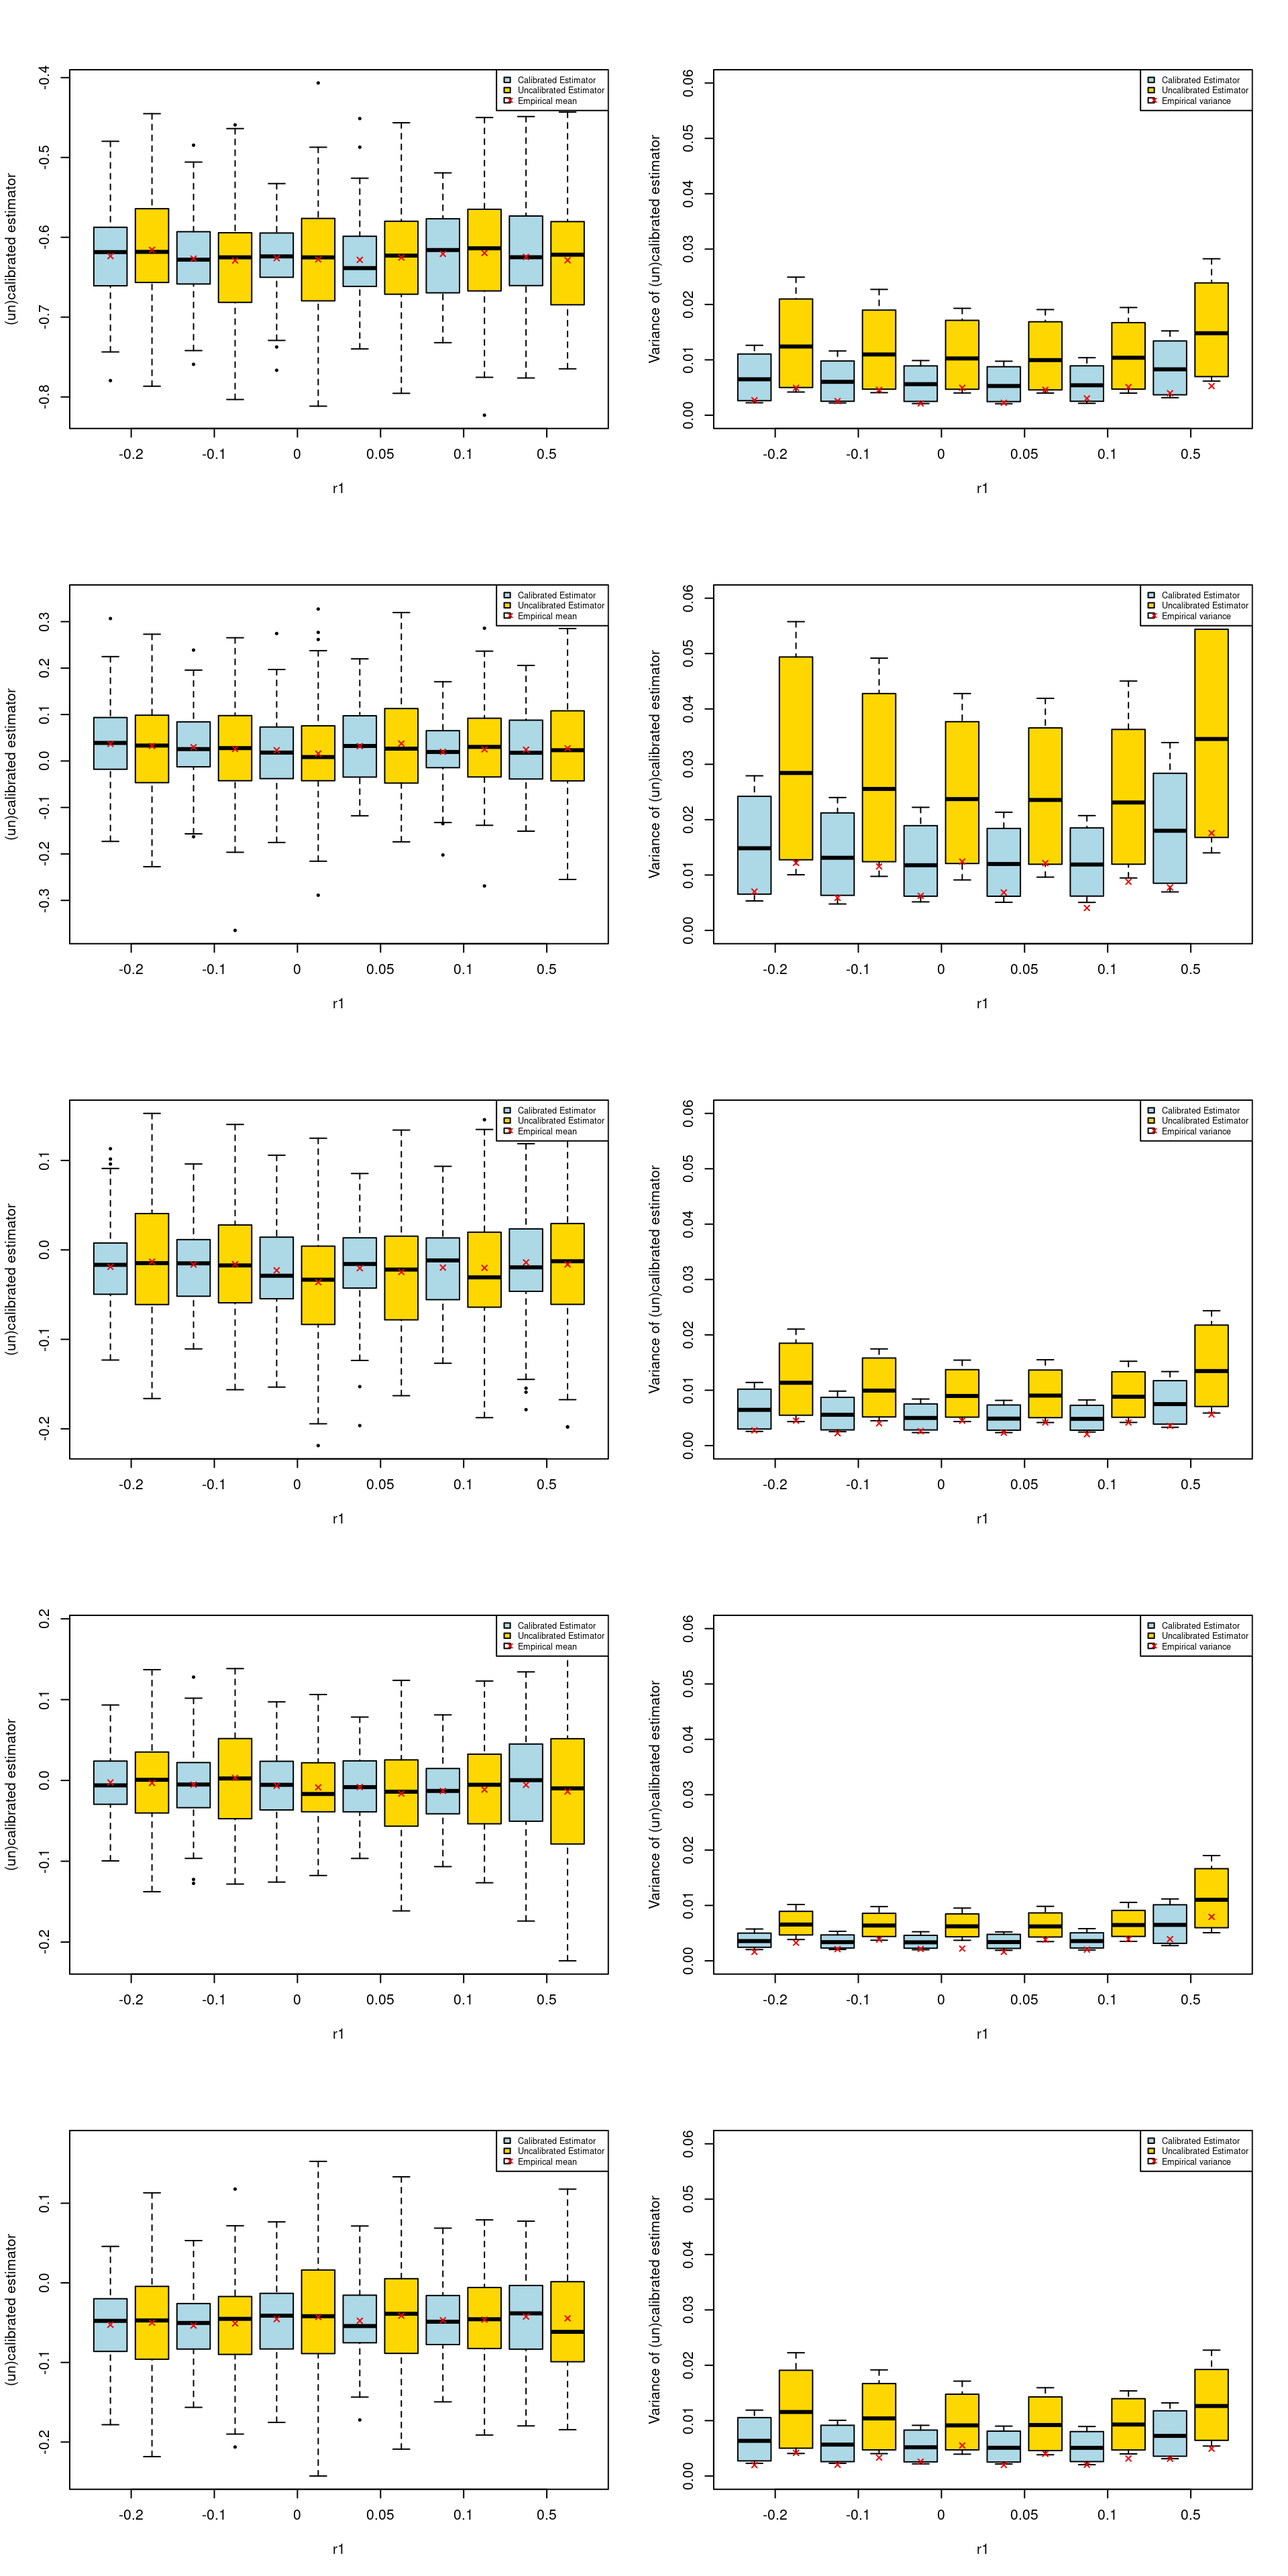
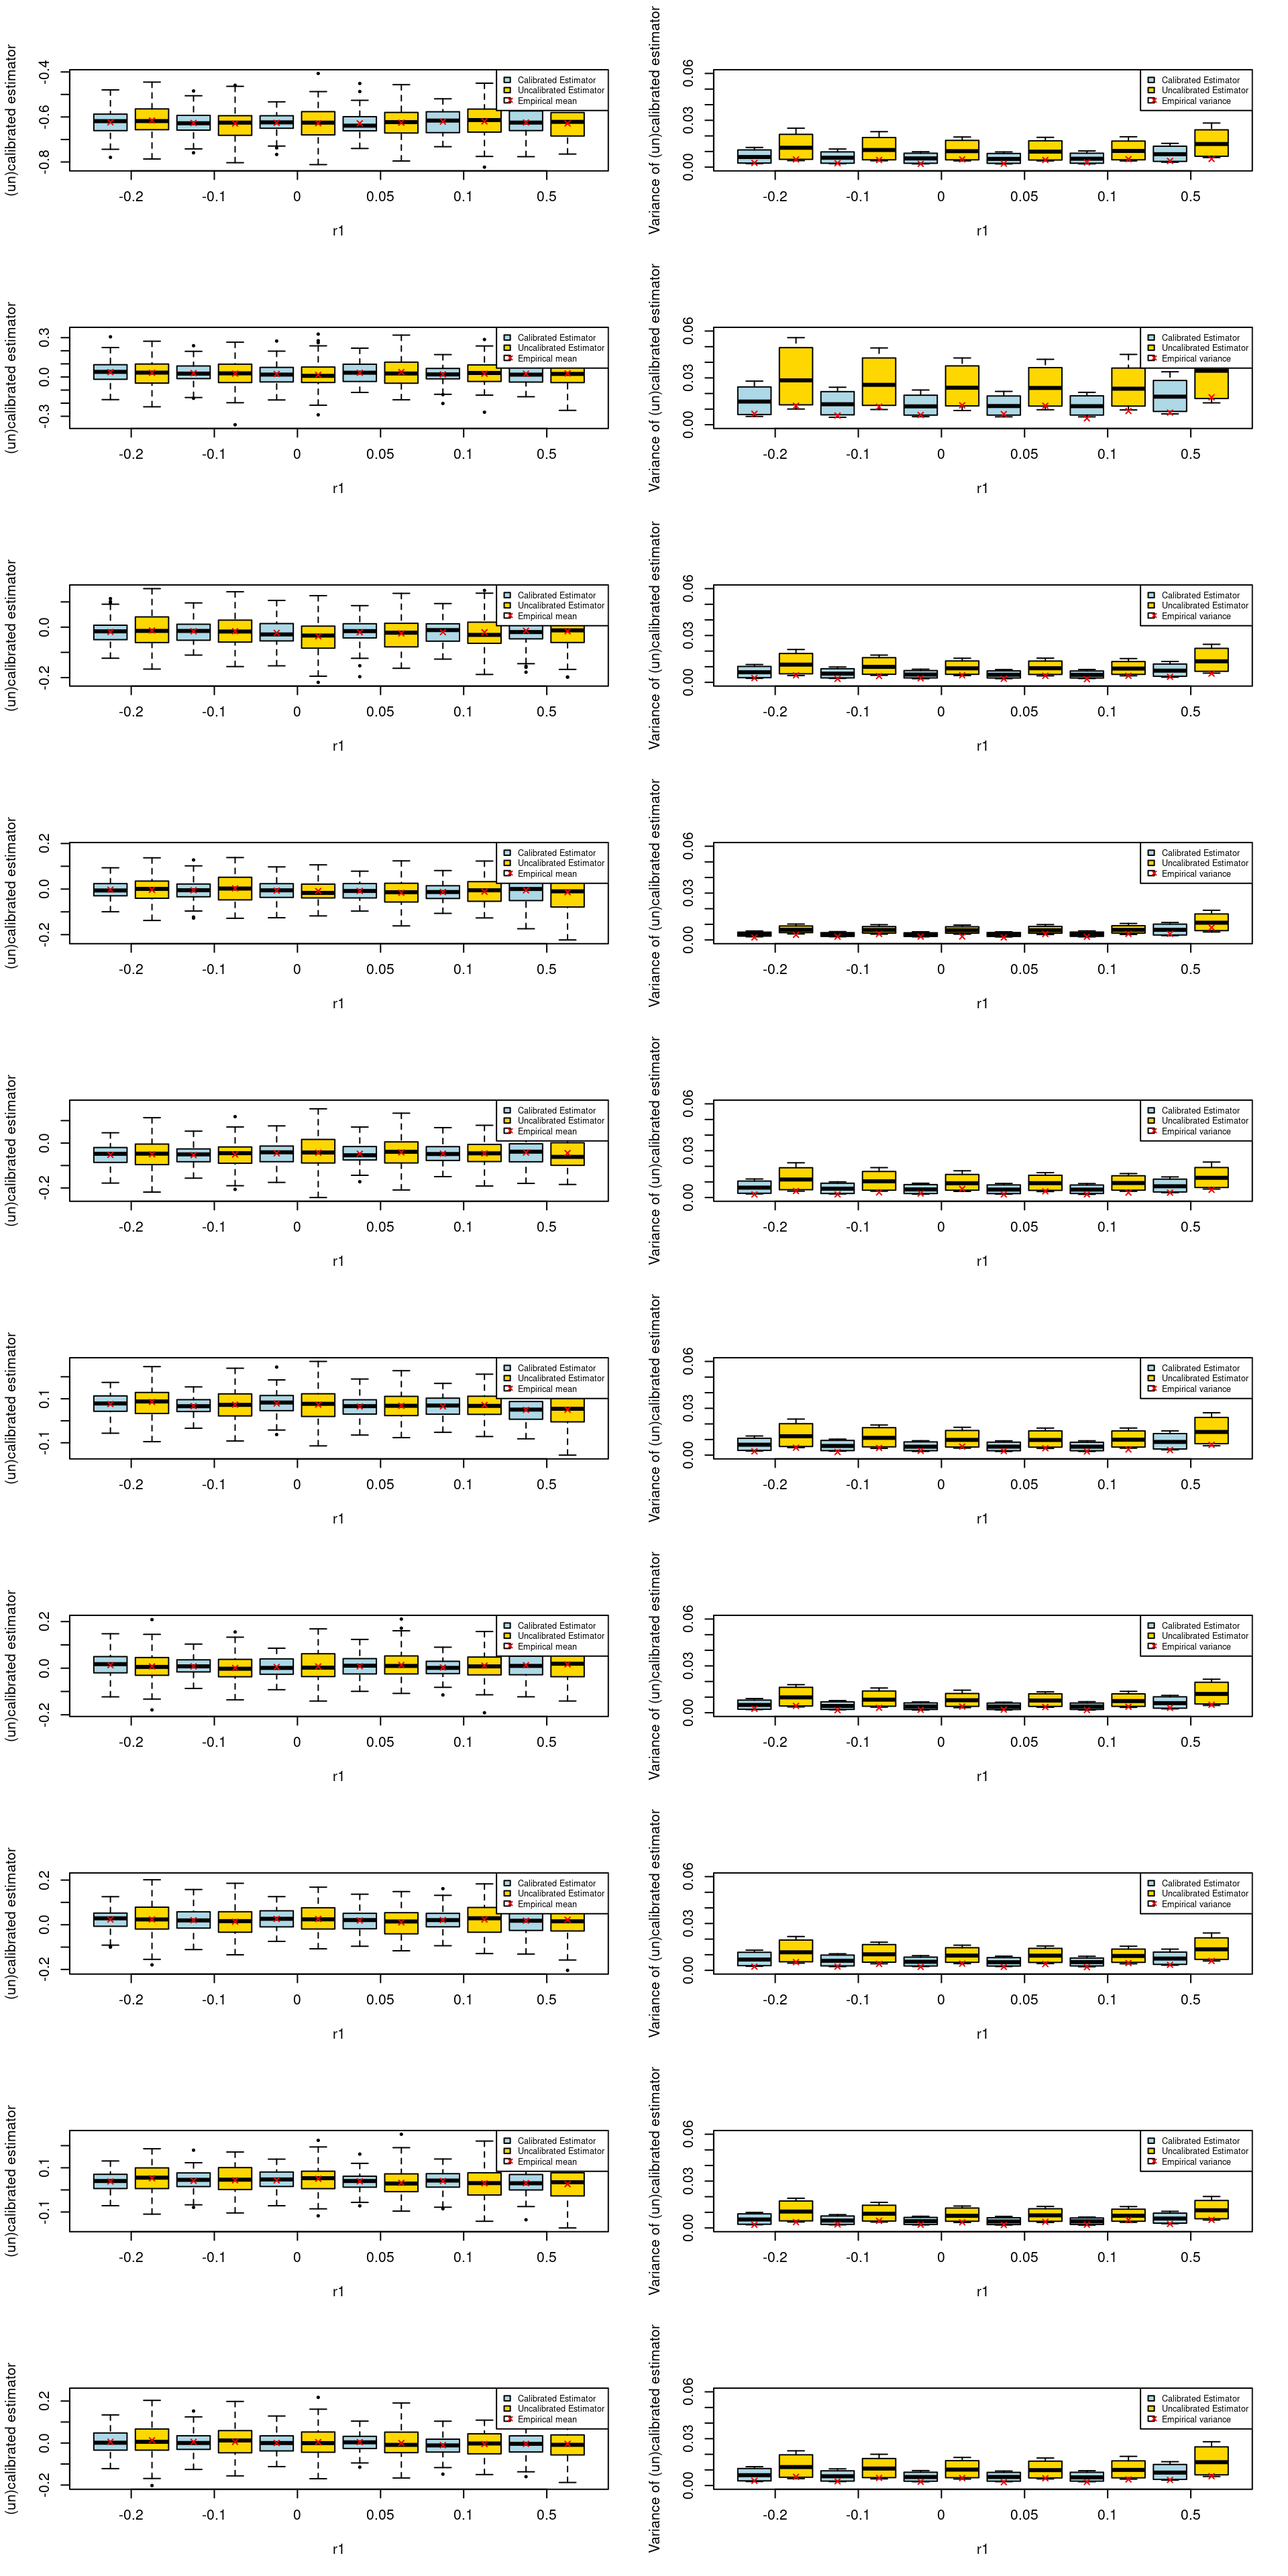
Build site.

diff --git a/docs/ukb_calibration.html b/docs/ukb_calibration.html
@@ -523,15 +523,15 @@ project makes it easier to run your code on other machines.</p>
 <div class="panel panel-default">
 <div class="panel-heading">
 <p class="panel-title">
-<a data-toggle="collapse" data-parent="#workflowr-checks" href="#strongRepositoryversionstrongahrefhttpsgithubcomyunqiyang0215simulationcalibratedmrtreebf44204738b3ddddd93906be93c7c40aaa3b6c11targetblankbf44204a">
+<a data-toggle="collapse" data-parent="#workflowr-checks" href="#strongRepositoryversionstrongahrefhttpsgithubcomyunqiyang0215simulationcalibratedmrtree30fd04c2df3b4d3c09e5abfd5ae8ac6022bf1440targetblank30fd04ca">
 <span class="glyphicon glyphicon-ok text-success"
 aria-hidden="true"></span> <strong>Repository version:</strong>
-<a href="https://github.com/yunqiyang0215/simulation-calibrated-mr/tree/bf44204738b3ddddd93906be93c7c40aaa3b6c11" target="_blank">bf44204</a>
+<a href="https://github.com/yunqiyang0215/simulation-calibrated-mr/tree/30fd04c2df3b4d3c09e5abfd5ae8ac6022bf1440" target="_blank">30fd04c</a>
 </a>
 </p>
 </div>
 <div
[2 lines of base64/hex data omitted]
 class="panel-collapse collapse">
 <div class="panel-body">
 <p>
@@ -541,7 +541,7 @@ reproducibility.
 </p>
 <p>
 The results in this page were generated with repository version
-<a href="https://github.com/yunqiyang0215/simulation-calibrated-mr/tree/bf44204738b3ddddd93906be93c7c40aaa3b6c11" target="_blank">bf44204</a>.
+<a href="https://github.com/yunqiyang0215/simulation-calibrated-mr/tree/30fd04c2df3b4d3c09e5abfd5ae8ac6022bf1440" target="_blank">30fd04c</a>.
 See the <em>Past versions</em> tab to see a history of the changes made
 to the R Markdown and HTML files.
 </p>
@@ -603,6 +603,40 @@ Message
 </tr>
 </thead>
 <tbody>
+<tr>
+<td>
+Rmd
+</td>
+<td>
+<a href="https://github.com/yunqiyang0215/simulation-calibrated-mr/blob/30fd04c2df3b4d3c09e5abfd5ae8ac6022bf1440/analysis/ukb_calibration.Rmd" target="_blank">30fd04c</a>
+</td>
+<td>
+yunqi yang
+</td>
+<td>
+2024-02-01
+</td>
+<td>
+wflow_publish("analysis/ukb_calibration.Rmd")
+</td>
+</tr>
+<tr>
+<td>
+html
+</td>
+<td>
+<a href="https://rawcdn.githack.com/yunqiyang0215/simulation-calibrated-mr/1bdfeea123da60c041af41b5282a2a1535ed8779/docs/ukb_calibration.html" target="_blank">1bdfeea</a>
+</td>
+<td>
+yunqi yang
+</td>
+<td>
+2024-02-01
+</td>
+<td>
+Build site.
+</td>
+</tr>
 <tr>
 <td>
 Rmd
@@ -1051,6 +1085,17 @@ Date
 <tbody>
 <tr>
 <td>
+<a href="https://github.com/yunqiyang0215/simulation-calibrated-mr/blob/1bdfeea123da60c041af41b5282a2a1535ed8779/docs/figure/ukb_calibration.Rmd/unnamed-chunk-5-1.png" target="_blank">1bdfeea</a>
+</td>
+<td>
+yunqi yang
+</td>
+<td>
+2024-02-01
+</td>
+</tr>
+<tr>
+<td>
 <a href="https://github.com/yunqiyang0215/simulation-calibrated-mr/blob/1e07f904235a8216b3ae4aaad7fcf6c7c7b6a1cf/docs/figure/ukb_calibration.Rmd/unnamed-chunk-5-1.png" target="_blank">1e07f90</a>
 </td>
 <td>
@@ -1155,6 +1200,17 @@ Date
 <tbody>
 <tr>
 <td>
+<a href="https://github.com/yunqiyang0215/simulation-calibrated-mr/blob/1bdfeea123da60c041af41b5282a2a1535ed8779/docs/figure/ukb_calibration.Rmd/unnamed-chunk-5-2.png" target="_blank">1bdfeea</a>
+</td>
+<td>
+yunqi yang
+</td>
+<td>
+2024-02-01
+</td>
+</tr>
+<tr>
+<td>
 <a href="https://github.com/yunqiyang0215/simulation-calibrated-mr/blob/1e07f904235a8216b3ae4aaad7fcf6c7c7b6a1cf/docs/figure/ukb_calibration.Rmd/unnamed-chunk-5-2.png" target="_blank">1e07f90</a>
 </td>
 <td>
@@ -1235,6 +1291,17 @@ Date
 </tr>
 </thead>
 <tbody>
+<tr>
+<td>
+<a href="https://github.com/yunqiyang0215/simulation-calibrated-mr/blob/1bdfeea123da60c041af41b5282a2a1535ed8779/docs/figure/ukb_calibration.Rmd/unnamed-chunk-5-3.png" target="_blank">1bdfeea</a>
+</td>
+<td>
+yunqi yang
+</td>
+<td>
+2024-02-01
+</td>
+</tr>
 <tr>
 <td>
 <a href="https://github.com/yunqiyang0215/simulation-calibrated-mr/blob/1e07f904235a8216b3ae4aaad7fcf6c7c7b6a1cf/docs/figure/ukb_calibration.Rmd/unnamed-chunk-5-3.png" target="_blank">1e07f90</a>
@@ -1319,6 +1386,17 @@ Date
 <tbody>
 <tr>
 <td>
+<a href="https://github.com/yunqiyang0215/simulation-calibrated-mr/blob/1bdfeea123da60c041af41b5282a2a1535ed8779/docs/figure/ukb_calibration.Rmd/unnamed-chunk-5-4.png" target="_blank">1bdfeea</a>
+</td>
+<td>
+yunqi yang
+</td>
+<td>
+2024-02-01
+</td>
+</tr>
+<tr>
+<td>
 <a href="https://github.com/yunqiyang0215/simulation-calibrated-mr/blob/1e07f904235a8216b3ae4aaad7fcf6c7c7b6a1cf/docs/figure/ukb_calibration.Rmd/unnamed-chunk-5-4.png" target="_blank">1e07f90</a>
 </td>
 <td>
@@ -1399,6 +1477,17 @@ Date
 </tr>
 </thead>
 <tbody>
+<tr>
+<td>
+<a href="https://github.com/yunqiyang0215/simulation-calibrated-mr/blob/1bdfeea123da60c041af41b5282a2a1535ed8779/docs/figure/ukb_calibration.Rmd/unnamed-chunk-5-5.png" target="_blank">1bdfeea</a>
+</td>
+<td>
+yunqi yang
+</td>
+<td>
+2024-02-01
+</td>
+</tr>
 <tr>
 <td>
 <a href="https://github.com/yunqiyang0215/simulation-calibrated-mr/blob/1e07f904235a8216b3ae4aaad7fcf6c7c7b6a1cf/docs/figure/ukb_calibration.Rmd/unnamed-chunk-5-5.png" target="_blank">1e07f90</a>
@@ -1483,6 +1572,17 @@ Date
 <tbody>
 <tr>
 <td>
+<a href="https://github.com/yunqiyang0215/simulation-calibrated-mr/blob/1bdfeea123da60c041af41b5282a2a1535ed8779/docs/figure/ukb_calibration.Rmd/unnamed-chunk-5-6.png" target="_blank">1bdfeea</a>
+</td>
+<td>
+yunqi yang
+</td>
+<td>
+2024-02-01
+</td>
+</tr>
+<tr>
+<td>
 <a href="https://github.com/yunqiyang0215/simulation-calibrated-mr/blob/1e07f904235a8216b3ae4aaad7fcf6c7c7b6a1cf/docs/figure/ukb_calibration.Rmd/unnamed-chunk-5-6.png" target="_blank">1e07f90</a>
 </td>
 <td>
@@ -1565,6 +1665,17 @@ Date
 <tbody>
 <tr>
 <td>
+<a href="https://github.com/yunqiyang0215/simulation-calibrated-mr/blob/1bdfeea123da60c041af41b5282a2a1535ed8779/docs/figure/ukb_calibration.Rmd/unnamed-chunk-5-7.png" target="_blank">1bdfeea</a>
+</td>
+<td>
+yunqi yang
+</td>
+<td>
+2024-02-01
+</td>
+</tr>
+<tr>
+<td>
 <a href="https://github.com/yunqiyang0215/simulation-calibrated-mr/blob/1e07f904235a8216b3ae4aaad7fcf6c7c7b6a1cf/docs/figure/ukb_calibration.Rmd/unnamed-chunk-5-7.png" target="_blank">1e07f90</a>
 </td>
 <td>
@@ -1623,6 +1734,17 @@ Date
 </tr>
 </thead>
 <tbody>
+<tr>
+<td>
+<a href="https://github.com/yunqiyang0215/simulation-calibrated-mr/blob/1bdfeea123da60c041af41b5282a2a1535ed8779/docs/figure/ukb_calibration.Rmd/unnamed-chunk-5-8.png" target="_blank">1bdfeea</a>
+</td>
+<td>
+yunqi yang
+</td>
+<td>
+2024-02-01
+</td>
+</tr>
 <tr>
 <td>
 <a href="https://github.com/yunqiyang0215/simulation-calibrated-mr/blob/1e07f904235a8216b3ae4aaad7fcf6c7c7b6a1cf/docs/figure/ukb_calibration.Rmd/unnamed-chunk-5-8.png" target="_blank">1e07f90</a>
@@ -1685,6 +1807,17 @@ Date
 <tbody>
 <tr>
 <td>
+<a href="https://github.com/yunqiyang0215/simulation-calibrated-mr/blob/1bdfeea123da60c041af41b5282a2a1535ed8779/docs/figure/ukb_calibration.Rmd/unnamed-chunk-5-9.png" target="_blank">1bdfeea</a>
+</td>
+<td>
+yunqi yang
+</td>
+<td>
+2024-02-01
+</td>
+</tr>
+<tr>
+<td>
 <a href="https://github.com/yunqiyang0215/simulation-calibrated-mr/blob/1e07f904235a8216b3ae4aaad7fcf6c7c7b6a1cf/docs/figure/ukb_calibration.Rmd/unnamed-chunk-5-9.png" target="_blank">1e07f90</a>
 </td>
 <td>
@@ -1745,6 +1878,17 @@ Date
 <tbody>
 <tr>
 <td>
+<a href="https://github.com/yunqiyang0215/simulation-calibrated-mr/blob/1bdfeea123da60c041af41b5282a2a1535ed8779/docs/figure/ukb_calibration.Rmd/unnamed-chunk-5-10.png" target="_blank">1bdfeea</a>
+</td>
+<td>
+yunqi yang
+</td>
+<td>
+2024-02-01
+</td>
+</tr>
+<tr>
+<td>
 <a href="https://github.com/yunqiyang0215/simulation-calibrated-mr/blob/1e07f904235a8216b3ae4aaad7fcf6c7c7b6a1cf/docs/figure/ukb_calibration.Rmd/unnamed-chunk-5-10.png" target="_blank">1e07f90</a>
 </td>
 <td>
@@ -1780,7 +1924,7 @@ yunqiyang0215
 </table>
 </div>
 </div>
-<pre class="r"><code>par(mfrow = c(5,2))
+<pre class="r"><code>par(mfrow = c(10,2))
 r1 = unique(res.Y1$sim_data.r1)
 
 for (i in 1:p){
@@ -1856,6 +2000,17 @@ Date
 <tbody>
 <tr>
 <td>
+<a href="https://github.com/yunqiyang0215/simulation-calibrated-mr/blob/1bdfeea123da60c041af41b5282a2a1535ed8779/docs/figure/ukb_calibration.Rmd/unnamed-chunk-6-1.png" target="_blank">1bdfeea</a>
+</td>
+<td>
+yunqi yang
+</td>
+<td>
+2024-02-01
+</td>
+</tr>
+<tr>
+<td>
 <a href="https://github.com/yunqiyang0215/simulation-calibrated-mr/blob/f71295dcde89f3cba7525a47443430e3f0c51c50/docs/figure/ukb_calibration.Rmd/unnamed-chunk-6-1.png" target="_blank">f71295d</a>
 </td>
 <td>
@@ -1880,7 +2035,6 @@ yunqiyang0215
 </table>
 </div>
 </div>
-<p><img src="figure/ukb_calibration.Rmd/unnamed-chunk-6-2.png" width="960" style="display: block; margin: auto;" /></p>
 <pre class="r"><code>par(mfrow = c(1,2))
 r1 = unique(res.Y1$sim_data.r1)
 for (k in 1:length(r1)){
